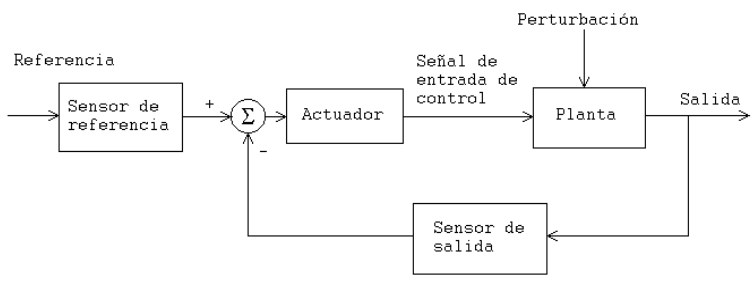
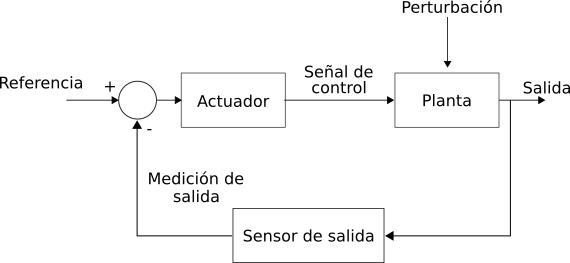
correciones y figuras nuevas en diagrama de bloques

Changed region(s): [[0.0, 0.1217, 1.0, 1.0], [0.686, 0.0, 0.8947, 0.0913], [0.0, 0.1825, 0.1491, 0.2433]]

diff --git a/doc/modulo1/diagrama_bloques/diagrama_de_bloques.md b/doc/modulo1/diagrama_bloques/diagrama_de_bloques.md
@@ -5,7 +5,7 @@ jupytext:
     extension: .md
     format_name: myst
     format_version: 0.13
-    jupytext_version: 1.10.2
+    jupytext_version: 1.11.0
 kernelspec:
   display_name: Python 3
   language: python
@@ -17,19 +17,32 @@ kernelspec:
 +++
 
 ## Diagrama de bloques: concepto
-Una forma esquemática de representar los sistemas de control es a través de los diagramas de bloques. En dicho diagrama identificamos los principales componentes como bloques, omitiendo detalles y mostrando la dirección principal de la información y la relación de causalidad entre componente y otro. 
+
+Una forma esquemática de representar los sistemas de control es a través de los diagramas de bloques. En dicho diagrama identificamos los principales componentes como bloques, omitiendo detalles y mostrando la dirección principal de la información y la relación de causalidad entre componente y otro.
+
 En la siguiente figura podemos ver el diagrama de bloques genérico del sistema de control realimentado.
 
-<img style="display:block; margin-left: auto; margin-right: auto;" src="fig1.png" width="600" alt="sistema de control general">
+:::{figure-md} diagrama-general
 
-Decimos que este sistema está realimetando, por que podemos ver que usamos la salida, que para este caso en particular es la medición de temperatura, para calcular y/o modificar la entrada al sistema. En este diagrama de bloques el resultado del sensor de salida se compara, mediante una resta con el sensor de la referencia.
+<img style="display:block; margin-left: auto; margin-right: auto;" src="fig1.png" alt="sistema de control general">
+
+Diagrama de control general de sistema controlado
+:::
+
+Decimos que este sistema está realimentado, por que podemos ver que usamos la salida, que para este caso en particular es la medición de temperatura, para calcular y/o modificar la entrada al sistema. En este diagrama de bloques el resultado del sensor de salida se compara, mediante una resta con el sensor de la referencia.
 
 +++
 
-### Ejemplo:
-En la siguiente figura mostramos como ejemplo de diagrama de bloques el sistema de control de una caldera controlado por un termotasto.
+### Ejemplo de sistema de control representado por diagrama de bloques
 
-<img style="display:block; margin-left: auto; margin-right: auto;" src="fig2.png" width="700" alt="sistema de control general">
+En la siguiente figura mostramos como ejemplo de diagrama de bloques el sistema de control de una caldera controlado por un termostato.
+
+:::{figure-md} diagrama-termostato
+
+<img style="display:block; margin-left: auto; margin-right: auto;" src="fig2.png" alt="sistema de control general">
+
+Diagrama de control de temperatura
+:::
 
 +++
 
@@ -37,11 +50,12 @@ En la siguiente figura mostramos como ejemplo de diagrama de bloques el sistema 
 
 Los diagramas de bloques, no solo pueden ser conceptuales, sino que también pueden ser usados para representar matemáticamente los sistemas.
 
-En un diagrama de bloques cada bloque del diagrama representa matemáticamente una parte del sistema, y las lineas son las señales de entrada y de salida de cada una de las partes del sistema. Así el sistema es subdidividido en subsistemas más pequeños y faciles de resolver.
+En un diagrama de bloques cada bloque del diagrama representa matemáticamente una parte del sistema, y las lineas son las señales de entrada y de salida de cada una de las partes del sistema. Así el sistema es dividido en subsistemas más pequeños y fáciles de resolver.
 
 +++
 
 ## Reducción de los diagramas de bloques usando algebra de bloques
+
 Podemos encontrar diversos sistemas de control, representados con diagramas de bloques complejos. Dichos diagramas los podemos reducir a un simple bloque empleando las reglas del algebra de bloques.
 
 A continuación demostraremos estas reglas mediante operaciones algebraicas y mediante el uso de Python.
@@ -56,8 +70,12 @@ sp.init_printing(use_latex=True)
 
 ### Bloques en serie
 
+:::{figure-md} bloques-serie
 
-<img style="display:block; margin-left: auto; margin-right: auto;" src="fig3.gif" width="350" alt="Bloques en serie">
+<img style="display:block; margin-left: auto; margin-right: auto;" src="fig3.png" width="350" alt="Bloques en serie">
+
+Bloques en serie
+:::
 
 $$ G(s) = \frac{Y(s)}{U(s)} = \frac{G2(s).X(s)}{U(s)} = \frac{G2(s).(G1(s).U(s))}{U(s)} = {G1(s).G2(s)} $$
 
@@ -75,7 +93,13 @@ sol[Y]/U
 
 ### Bloques en paralelo
 
-<img style="display:block; margin-left: auto; margin-right: auto;" src="fig4.gif" width="350" alt="Bloques en serie">
+:::{figure-md} bloques-paralelo
+
+<img style="display:block; margin-left: auto; margin-right: auto;" src="fig4.png" alt="Bloques en serie">
+
+Bloques en paralelo
+
+:::
 
 $$ G = \frac{Y(s)}{U(s)} = \frac{X1(s)+X2(s)}{U(s)} = \frac{G1(s).U(s)+G2(s).U(s)}{U(s)} = \frac{(G1(s)+G2(s)).U(s)}{U(s)} = G1(s) + G2(s) $$
 
@@ -94,12 +118,22 @@ sol[Y]/U
 ```
 
 ### Sistema realimentado
+
 $$X1(s)  = U(s) - X2(s) = U(s) - Y(s).G2(s) $$
+
 $$Y(s) = X1(s).G1(s) = \left(U(s) - Y(s).G2(s)\right).G1(s) = U(s).G1(s) - Y(s).G2(s).G1(s)$$
+
 $$Y.(1+G1(s).G2(s)) = U(s).G1(s)$$
+
 $$G = \frac{Y(s)}{U(s)} =\frac{G1(s)}{(1+G1(s).G2(s))}$$
 
-<img  style="display:block; margin-left: auto; margin-right: auto;" alt="que es esto" src="fig5.gif" width="350">
+:::{figure-md} bloques-realimentados
+
+<img  style="display:block; margin-left: auto; margin-right: auto;" alt="que es esto" src="fig5.png">
+
+Bloques realimentados
+
+:::
 
 ```{code-cell} ipython3
 # opcionaL
@@ -125,18 +159,31 @@ sol = sp.solve(eqs, unknowns)
 sol[Y]/U
 ```
 
-### Otras transformaciones útiles en el algebra de diagramas de bloque 
-<img style="display:block; margin-left: auto; margin-right: auto;" alt="que es esto" src="fig6.gif" width="700">
+### Otras transformaciones útiles en el algebra de diagramas de bloque
+
+:::{figure-md} transformaciones-utiles
+
+<img style="display:block; margin-left: auto; margin-right: auto;" alt="transformaciones útiles" src="fig6.png">
+
+Transformaciones útiles
+
+::::
 
 +++
 
-### Ejemplo:
+### Ejemplo de diagrama de bloques
 
 +++
 
 Tenemos el diagrama de bloques de la figura, el cual queremos reducir.
 
-<img style="display:block; margin-left: auto; margin-right: auto;" alt="que es esto" src="fig7.gif" width="600">
+:::{figure-md}
+
+<img style="display:block; margin-left: auto; margin-right: auto;" alt="que es esto" src="fig7.png" >
+
+Ejemplo de simplificación de diagrama de bloques
+
+:::
 
 +++
 
@@ -146,11 +193,23 @@ Tenemos el diagrama de bloques de la figura, el cual queremos reducir.
 
 En las siguientes dos figuras mostramos dos reducciones sucesivas al diagrama del ejemplo.
 
-<img style="display:block; margin-left: auto; margin-right: auto;" alt="que es esto" src="fig8.gif" >
+:::{figure-md} primer-paso
+
+<img style="display:block; margin-left: auto; margin-right: auto;" alt="ejemplo para simplificar" src="fig8.png" >
+
+Primer paso de simplificación
+
+:::
 
 +++
 
-<img style="display:block; margin-left: auto; margin-right: auto;" alt="que es esto" src="fig9.gif" >
+:::{figure-md} segundo-paso
+
+<img style="display:block; margin-left: auto; margin-right: auto;" alt="ejemplo para simplificar" src="fig9.png" >
+
+Segundo paso de simplificación
+
+:::
 
 +++
 
@@ -165,7 +224,7 @@ $$ G(s)=\dfrac{G_1G_2G_5+G_1G_6}{1-G_1G_3+G_1G_2G_4} $$
 
 +++
 
-Definimos un simbolo de sympy por cada una de las señales y bloques que se encuentran en el sistema. Esto se hace de la siguiente manera
+Definimos un símbolo de sympy por cada una de las señales y bloques que se encuentran en el sistema. Esto se hace de la siguiente manera
 
 ```{code-cell} ipython3
 (R, G1s, G2s, G3s, G4s, G5s, G6s, 
@@ -173,13 +232,13 @@ S1s, S2s, G1, G2, G3, G4, G5, G6, Y) = sp.symbols('R, G1s, G2s, G3s, G4s, G5s,'
                                                  'G6s, S1s, S2s, G1, G2,G3, G4, G5, G6, Y')
 ```
 
-Se definen las incognitas del diagrama de bloques. Lo que se conoce del sistema son los bloques y las señales de entrada. Por lo tanto, lo que se desconoce, y se quiere averigual, son las señales que no son entradas. Es decir:
+Se definen las incógnitas del diagrama de bloques. Lo que se conoce del sistema son los bloques y las señales de entrada. Por lo tanto, lo que se desconoce, y se quiere averiguar, son las señales que no son entradas. Es decir:
 
 ```{code-cell} ipython3
 unknowns =  G1s, G2s, G3s, G4s, G5s, G6s, S1s, S2s, Y
 ```
 
-Finalemente tenemos que escribir las ecuaciones que vemos en el diagrama de bloques. Cada bloque define la señal de salida como producto de su transferencia por su entrada y cada sumador define su salida como suma o resta de sus entradas. Para el diagrama anterior se formulan las siguientes ecuaciones:
+Finalmente tenemos que escribir las ecuaciones que vemos en el diagrama de bloques. Cada bloque define la señal de salida como producto de su transferencia por su entrada y cada sumador define su salida como suma o resta de sus entradas. Para el diagrama anterior se formulan las siguientes ecuaciones:
 
 ```{code-cell} ipython3
 :tags: [output_scroll]
@@ -213,11 +272,11 @@ G=sol[Y]/R
 G.factor()
 ```
 
-También podemos obetner la transferencia entre dos señales cualesquiera del diagrama enterior. Por ejemplo podemos obtener la transferencia entre $Y$ y $S2s$.
+También podemos obtener la transferencia entre dos señales cualesquiera del diagrama anterior. Por ejemplo podemos obtener la transferencia entre $Y$ y $S2s$.
 
 +++
 
-Si queremos tener la función transferencia en $s$, debemos sustituir cada bloque por sus transferencia, (pongo valores culaquiera como funciones transferencias $G_1 \ldots G_6$:
+Si queremos tener la función transferencia en $s$, debemos sustituir cada bloque por sus transferencia, (pongo valores cualquiera como funciones transferencias $G_1 \ldots G_6$:
 
 ```{code-cell} ipython3
 s=sp.symbols('s')
